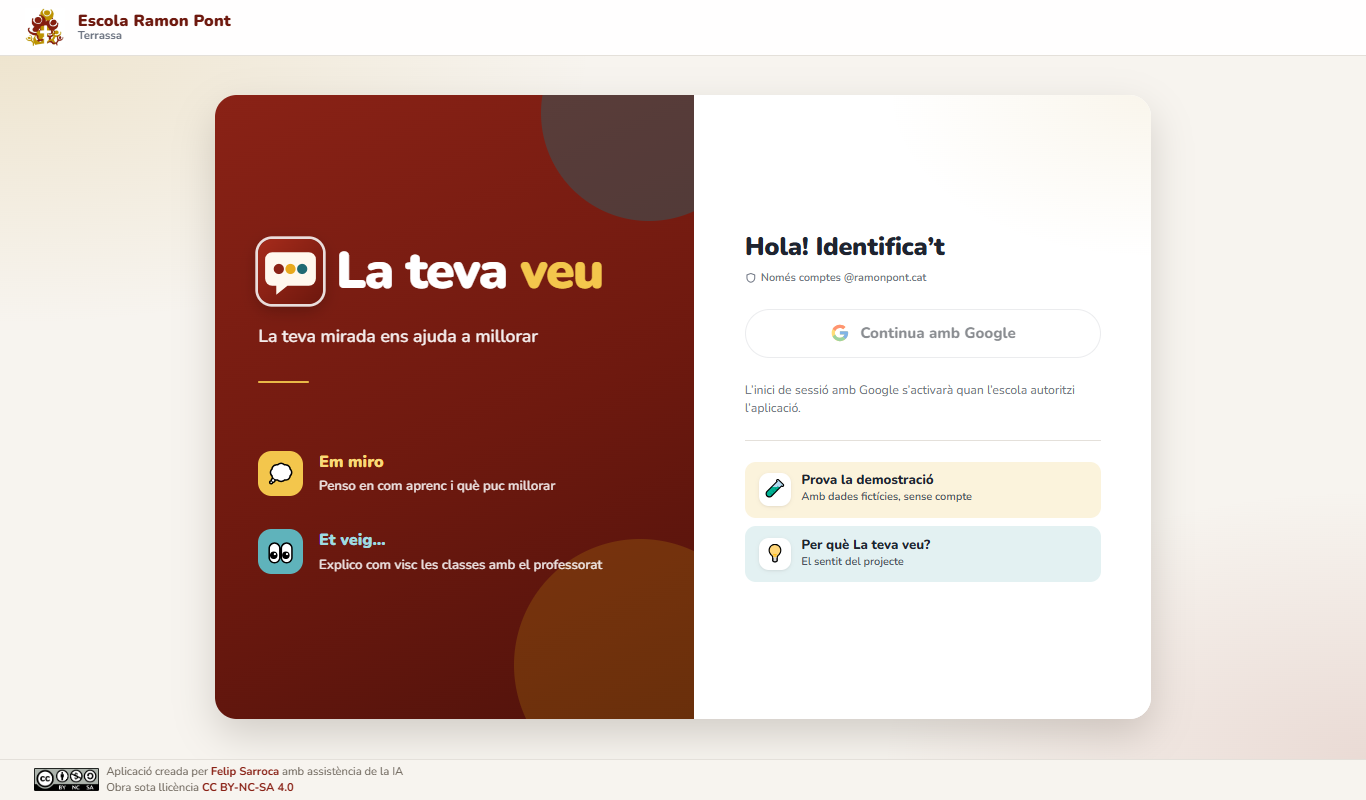
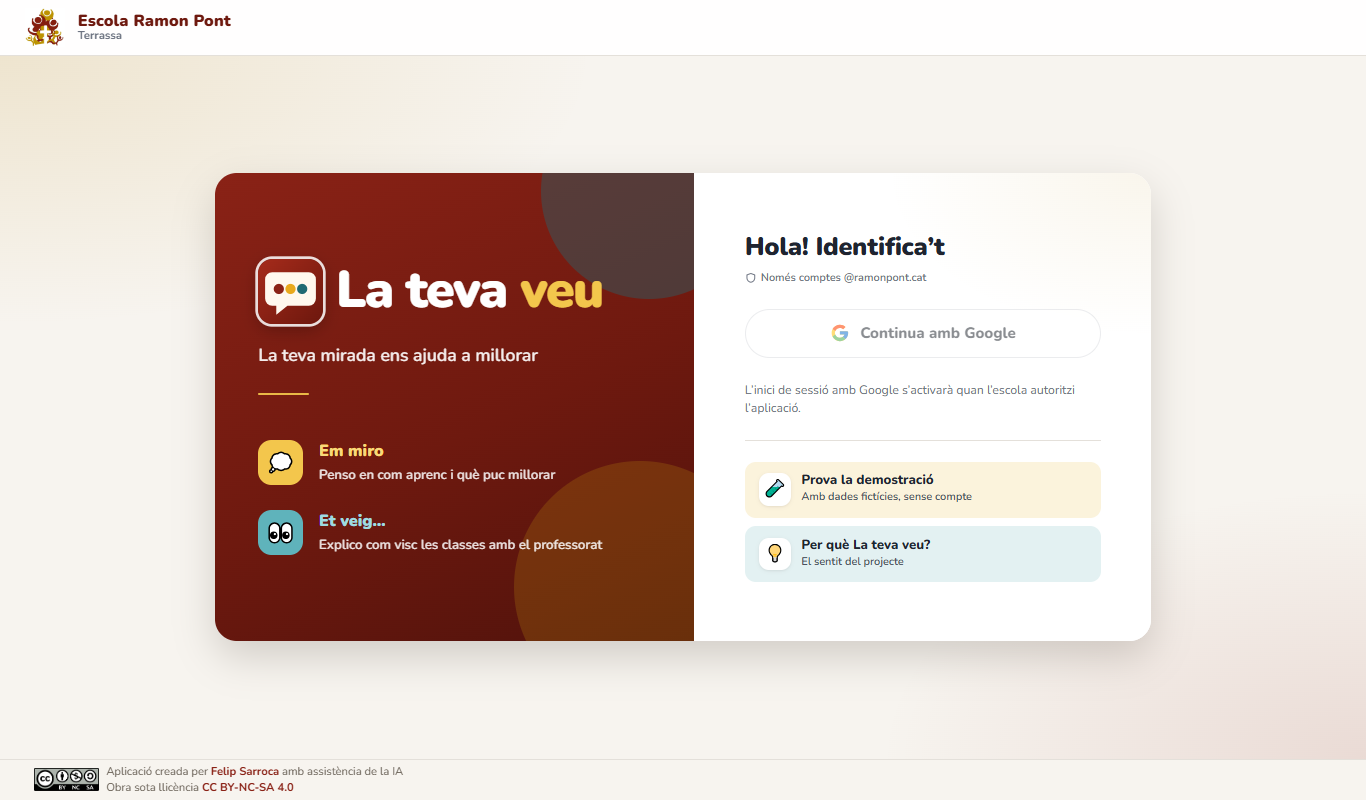
La teva veu: targeta d'entrada més compacta
Menys alçada mínima i marges més ajustats, mantenint la separació
entre el títol, el lema i els dos apartats.

Changed region(s): [[0.1537, 0.5312, 0.8609, 0.9375], [0.1537, 0.0938, 0.5227, 0.5]]

diff --git a/LaTevaVeu/src/styles.css b/LaTevaVeu/src/styles.css
@@ -158,15 +158,15 @@ body { padding-bottom: var(--footer-h); }
     radial-gradient(900px 500px at 100% 100%, rgba(138, 34, 22, .12), transparent 60%),
     var(--bg);
 }
-/* La targeta ocupa gairebé tota l'alçada lliure (capçalera, peu i marges a part). */
+/* Targeta compacta i centrada: prou alta per respirar, sense omplir tota la pantalla. */
 .login-card {
   display: grid; grid-template-columns: 1.05fr 1fr; width: min(1040px, 100%);
-  min-height: clamp(0px, calc(100 * var(--dvh) - var(--footer-h) - 150px), 720px);
+  min-height: clamp(0px, calc(100 * var(--dvh) - var(--footer-h) - 260px), 520px);
   overflow: hidden; border-radius: var(--r-xl); box-shadow: var(--sh-3); background: #fff;
 }
 .login-brand {
-  position: relative; display: flex; flex-direction: column; justify-content: center; gap: clamp(2rem, calc(9 * var(--vh)), 4.6rem);
-  padding: clamp(28px, calc(6 * var(--vh)), 56px) clamp(24px, 4vw, 48px);
+  position: relative; display: flex; flex-direction: column; justify-content: center; gap: clamp(1.6rem, calc(5.5 * var(--vh)), 3rem);
+  padding: clamp(28px, calc(5 * var(--vh)), 44px) clamp(24px, 4vw, 48px);
   background: linear-gradient(155deg, #8a2216 0%, #6e190f 55%, #4f120b 100%); color: #fff; overflow: hidden;
 }
 .login-brand::before { content: ''; position: absolute; right: -70px; top: -100px; width: 240px; height: 240px; border-radius: 50%; background: rgba(31, 106, 115, .4); }
@@ -182,9 +182,9 @@ body { padding-bottom: var(--footer-h); }
 .login-title-text span { color: #f3c64c; }
 .login-app-icon { flex: none; width: 1.25em; height: 1.25em; border-radius: 22%; box-shadow: 0 0 0 3px rgba(255, 255, 255, .85), 0 6px 18px rgba(0, 0, 0, .25); }
 .login-sub { font-size: 1.22rem; opacity: .92; margin-top: 1.3rem; font-weight: 600; }
-.login-sub::after { content: ''; display: block; width: 56px; height: 3px; margin-top: clamp(1.4rem, calc(4 * var(--vh)), 2.2rem); border-radius: 3px; background: #f3c64c; }
+.login-sub::after { content: ''; display: block; width: 56px; height: 3px; margin-top: clamp(1.2rem, calc(3 * var(--vh)), 1.8rem); border-radius: 3px; background: #f3c64c; }
 /* Els dos espais, amb el mateix color que tenen dins l'app (or per a Em miro, verd blavós per a Et veig). */
-.login-steps { display: grid; gap: clamp(1.3rem, calc(4.5 * var(--vh)), 2.2rem); list-style: none; margin: 0; padding: 0; }
+.login-steps { display: grid; gap: clamp(1.1rem, calc(3 * var(--vh)), 1.6rem); list-style: none; margin: 0; padding: 0; }
 .login-steps li { display: flex; align-items: center; gap: 1.1rem; }
 .login-steps li > span { display: grid; place-items: center; width: 50px; height: 50px; border-radius: 15px; font-size: 1.5rem; flex: none; }
 .login-steps li.em > span { background: #f3c64c; }
@@ -195,7 +195,7 @@ body { padding-bottom: var(--footer-h); }
 .login-steps small { display: block; font-size: .92rem; font-weight: 600; opacity: .88; line-height: 1.45; }
 .login-form {
   display: flex; flex-direction: column; justify-content: center; gap: 1.6rem;
-  padding: clamp(28px, calc(6 * var(--vh)), 56px) clamp(24px, 4.5vw, 56px);
+  padding: clamp(28px, calc(5 * var(--vh)), 44px) clamp(24px, 4.5vw, 56px);
   background: radial-gradient(420px 260px at 100% 0%, rgba(184, 134, 11, .08), transparent 70%), #fff;
 }
 .login-hello { display: grid; gap: .5rem; }
